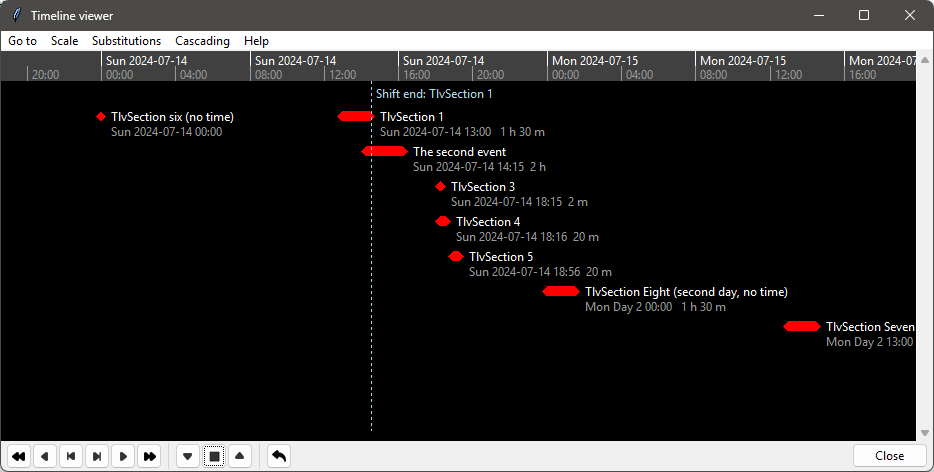
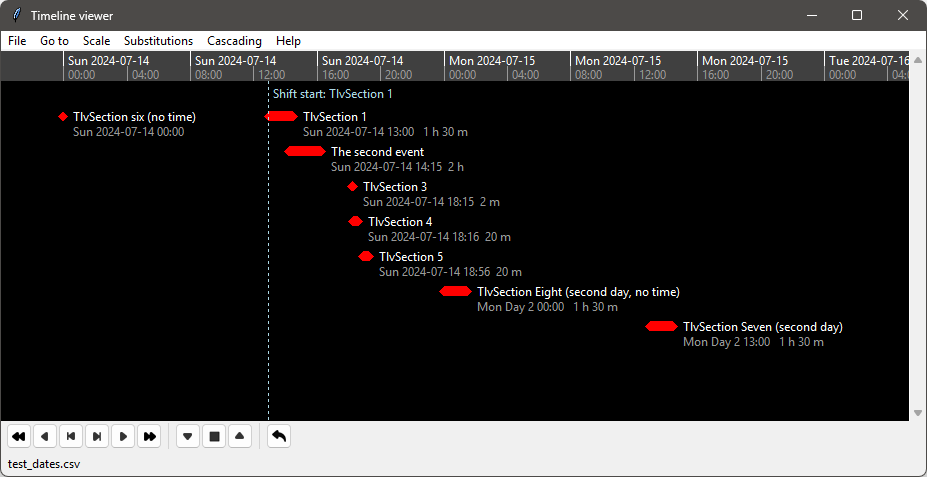
Added the "File" menu; handling file read errors.

Changed region(s): [[0.0, 0.0297, 0.9968, 0.7415], [0.0, 0.8602, 0.9968, 1.0]]

diff --git a/src/tlviewer/timeline_viewer.py b/src/tlviewer/timeline_viewer.py
@@ -7,6 +7,7 @@ License: GNU GPLv3 (https://www.gnu.org/licenses/gpl-3.0.en.html)
 import locale
 import sys
 from tkinter import ttk
+from tkinter import messagebox
 
 from nvtlview.tlv_controller import TlvController
 import tkinter as tk
@@ -22,15 +23,6 @@ LOCALIZE_DATE = False
 class TimelineViewer:
 
     def __init__(self):
-
-        def disable_undo_button(self, event=None):
-            toolbar.undoButton.config(state='disabled')
-
-        def enable_undo_button(self, event=None):
-            toolbar.undoButton.config(state='normal')
-
-        def on_quit(event=None):
-            sys.exit(0)
 
         if LOCALIZE_DATE:
             locale.setlocale(locale.LC_TIME, "")
@@ -49,8 +41,10 @@ class TimelineViewer:
         self.mdl = TlvDataModel()
         mainWindow = ttk.Frame(self.root)
         mainWindow.pack(fill='both', expand=True)
-        toolbar = TlviewerToolbar(mainWindow, largeIcons=False, enableHovertips=True)
-        toolbar.pack(side='bottom', fill='x', padx=5, pady=2)
+        self.pathBar = tk.Label(mainWindow, text='', anchor='w', padx=5, pady=3)
+        self.pathBar.pack(side='bottom', expand=False, fill='x')
+        self.toolbar = TlviewerToolbar(mainWindow, largeIcons=False, enableHovertips=True)
+        self.toolbar.pack(side='bottom', fill='x', padx=5, pady=2)
 
         self.tlvCtrl = TlvController(
             self.mdl,
@@ -59,7 +53,40 @@ class TimelineViewer:
             settings,
             )
         self.mdl.add_observer(self.tlvCtrl)
+        self._bind_events()
 
+    def disable_undo_button(self, event=None):
+        self.toolbar.undoButton.config(state='disabled')
+
+    def enable_undo_button(self, event=None):
+        self.toolbar.undoButton.config(state='normal')
+
+    def on_quit(self, event=None):
+        sys.exit(0)
+
+    def read_data(self, filePath):
+        try:
+            self.mdl.read_data(filePath)
+        except Exception as ex:
+            messagebox.showerror(
+                self.root.title(),
+                message='Cannot load file',
+                detail=str(ex),
+                )
+            return
+
+        self.tlvCtrl.refresh()
+        self.tlvCtrl.fit_window()
+        self.show_path(filePath)
+
+    def show_path(self, message):
+        """Put text on the path bar."""
+        self.pathBar.config(text=message)
+
+    def start(self):
+        self.root.mainloop()
+
+    def _bind_events(self):
         # Bind the commands to the controller.
         event_callbacks = {
             '<<refresh_view>>': self.tlvCtrl.refresh,
@@ -79,28 +106,25 @@ class TimelineViewer:
             '<<reduce_scale>>': self.tlvCtrl.reduce_scale,
             '<<increase_scale>>': self.tlvCtrl.increase_scale,
             '<<undo>>': self.tlvCtrl.undo,
-            '<<disable_undo>>': disable_undo_button,
-            '<<enable_undo>>': enable_undo_button,
-            '<<close_view>>': on_quit,
+            '<<disable_undo>>': self.disable_undo_button,
+            '<<enable_undo>>': self.enable_undo_button,
+            '<<close_view>>': self.on_quit,
         }
         for sequence, callback in event_callbacks.items():
             self.root.bind(sequence, callback)
 
-    def read_data(self, filePath):
-        self.mdl.read_data(filePath)
-        self.tlvCtrl.refresh()
-        self.tlvCtrl.fit_window()
 
-    def start(self):
-        self.root.mainloop()
-
-
-def main(filePath=None):
+def main():
     app = TimelineViewer()
-    if filePath is not None:
+    try:
+        filePath = sys.argv[1]
+    except IndexError:
+        filePath = None
+    else:
         app.read_data(filePath)
     app.start()
 
 
 if __name__ == '__main__':
-    main(sys.argv[1])
+    main()
+

diff --git a/src/tlviewer/tlviewer_menu.py b/src/tlviewer/tlviewer_menu.py
@@ -6,6 +6,8 @@ License: GNU GPLv3 (https://www.gnu.org/licenses/gpl-3.0.en.html)
 """
 from nvtlview.tlv_locale import _
 import tkinter as tk
+from nvtlview.platform.platform_settings import KEYS
+from nvtlview.platform.platform_settings import PLATFORM
 
 
 class TlviewerMenu(tk.Menu):
@@ -13,6 +15,22 @@ class TlviewerMenu(tk.Menu):
     def __init__(self, master, settings, cnf={}, **kw):
         super().__init__(master=master, cnf=cnf, **kw)
         self.settings = settings
+
+        # "File" menu.
+        self.fileMenu = tk.Menu(self, tearoff=0)
+        self.add_cascade(label=_('File'), menu=self.fileMenu)
+        self.fileMenu.add_command(label=_('New'), command=self._event('<<create_project>>'))
+        self.fileMenu.add_command(label=_('Open...'), accelerator=KEYS.OPEN_PROJECT[1], command=self._event('<<open_project>>'))
+        self.fileMenu.add_command(label=_('Reload'), accelerator=KEYS.RELOAD_PROJECT[1], command=self._event('<<reload_project>>'))
+        self.fileMenu.add_command(label=_('Save'), accelerator=KEYS.SAVE_PROJECT[1], command=self._event('<<save_project>>'))
+        self.fileMenu.add_command(label=_('Save as...'), accelerator=KEYS.SAVE_AS[1], command=self._event('<<ctrl.save_as>>'))
+        self.fileMenu.add_command(label=_('Close'), command=self._event('<<close_project>>'))
+        self.fileMenu.entryconfig(_('Close'), state='disabled')
+        if PLATFORM == 'win':
+            label = _('Exit')
+        else:
+            label = _('Quit')
+        self.fileMenu.add_command(label=label, accelerator=KEYS.QUIT_PROGRAM[1], command=self._event('<<close_view>>'))
 
         # "Go to" menu.
         self.goMenu = tk.Menu(self, tearoff=0)

diff --git a/src/nvtlview/platform/generic_keys.py b/src/nvtlview/platform/generic_keys.py
@@ -10,5 +10,9 @@ from nvtlview.tlv_locale import _
 class GenericKeys:
 
     OPEN_HELP = ('<F1>', 'F1')
+    OPEN_PROJECT = ('<Control-o>', f'{_("Ctrl")}-O')
     QUIT_PROGRAM = ('<Control-q>', f'{_("Ctrl")}-Q')
+    RELOAD_PROJECT = ('<Control-r>', f'{_("Ctrl")}-R')
+    SAVE_AS = ('<Control-S>', f'{_("Ctrl")}-{_("Shift")}-S')
+    SAVE_PROJECT = ('<Control-s>', f'{_("Ctrl")}-S')
     UNDO = ('<Control-z>', f'{_("Ctrl")}-Z')

diff --git a/src/tlviewer/tlviewer_toolbar.py b/src/tlviewer/tlviewer_toolbar.py
@@ -145,13 +145,6 @@ class TlviewerToolbar(ttk.Frame):
         self.undoButton.pack(side='left')
         self.undoButton.image = self._toolbarIcons['undo']
 
-        # "Close" button.
-        ttk.Button(
-            self,
-            text=_('Close'),
-            command=self._event('<<close_view>>')
-            ).pack(side='right')
-
         # Initialize tooltips.
         if not enableHovertips:
             return
